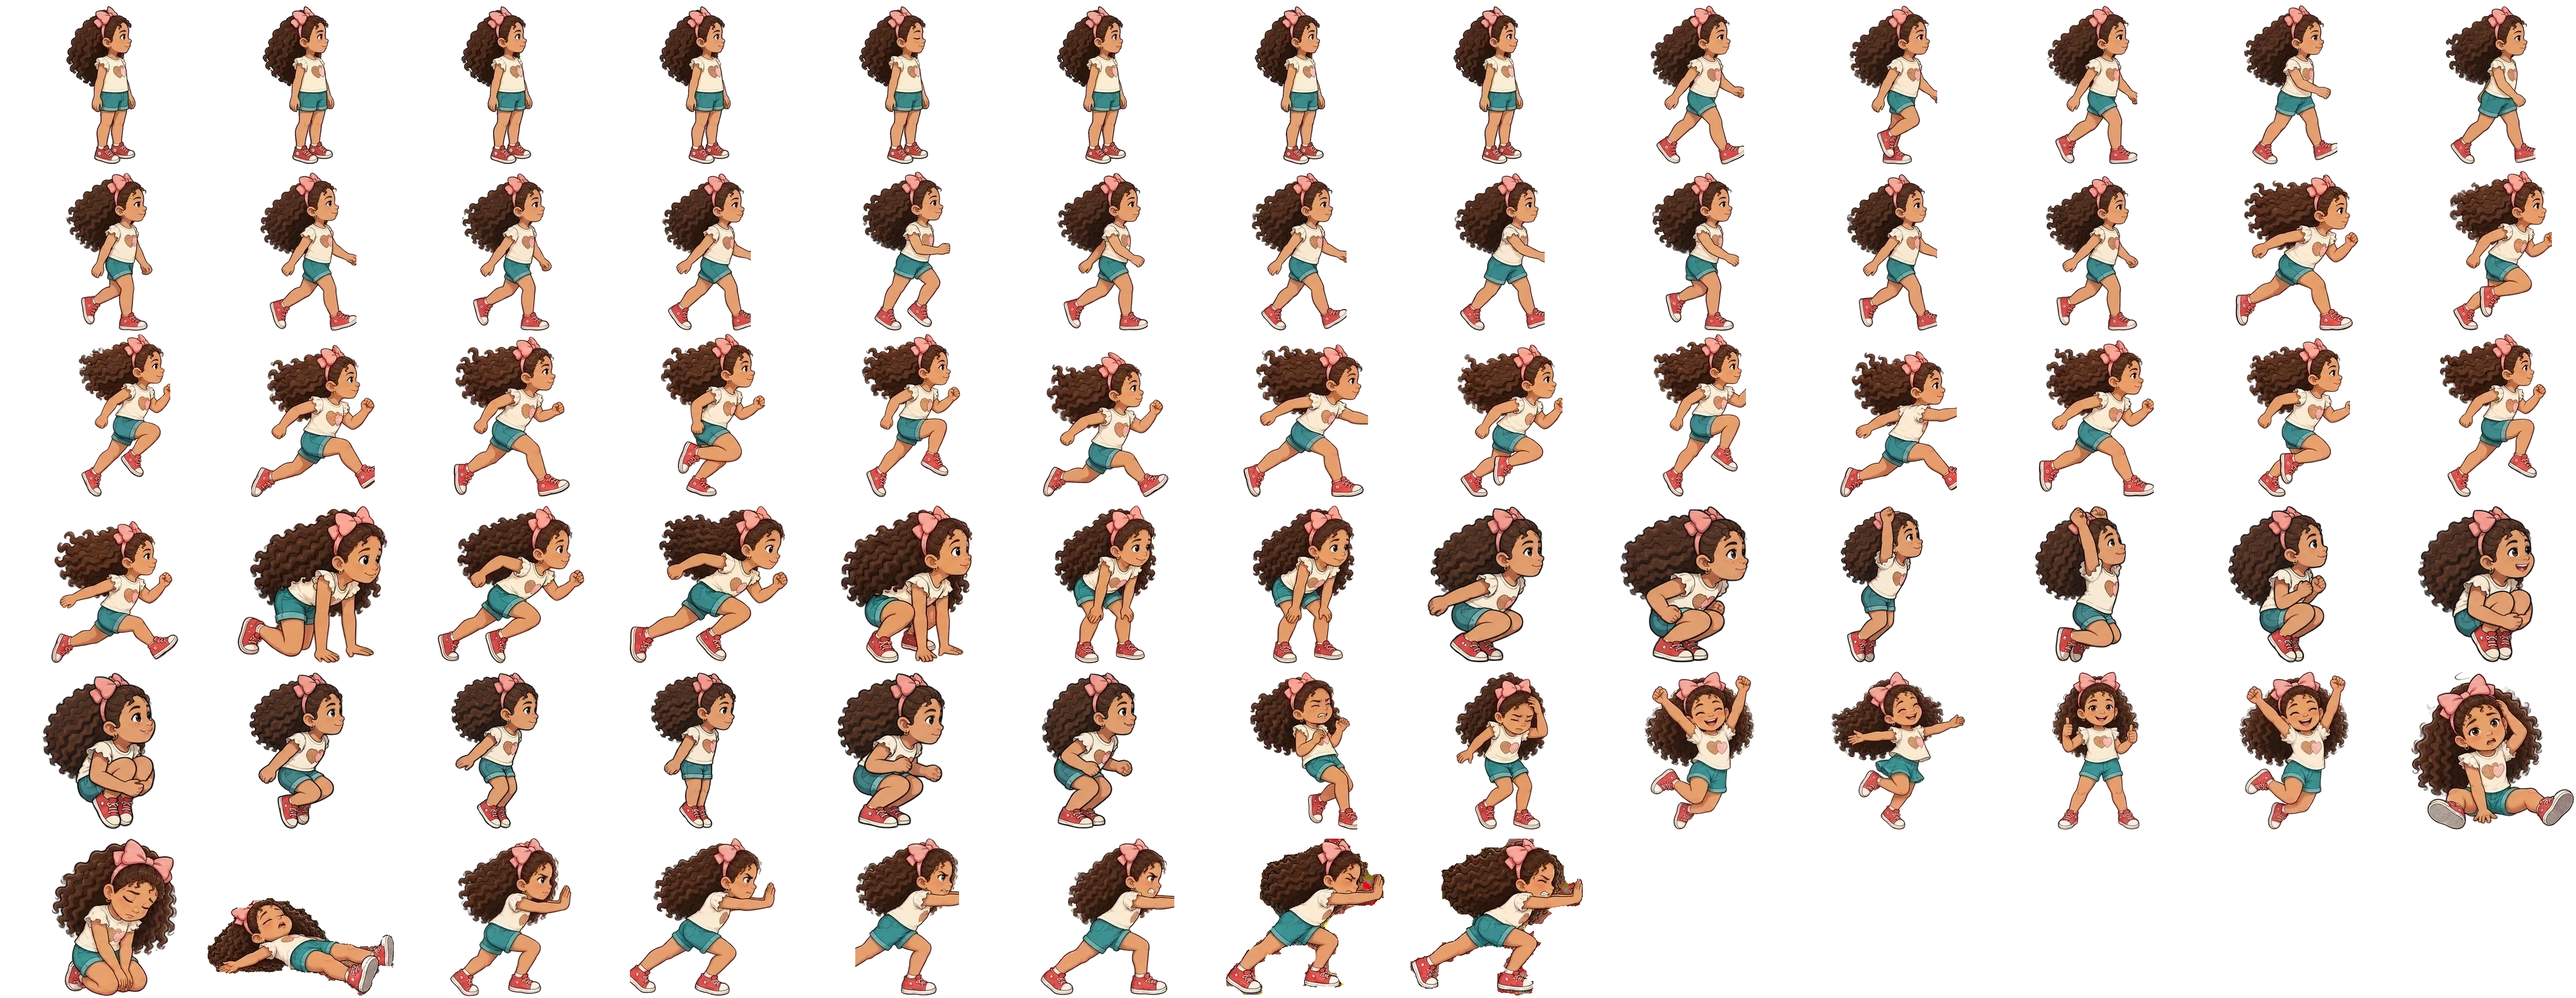
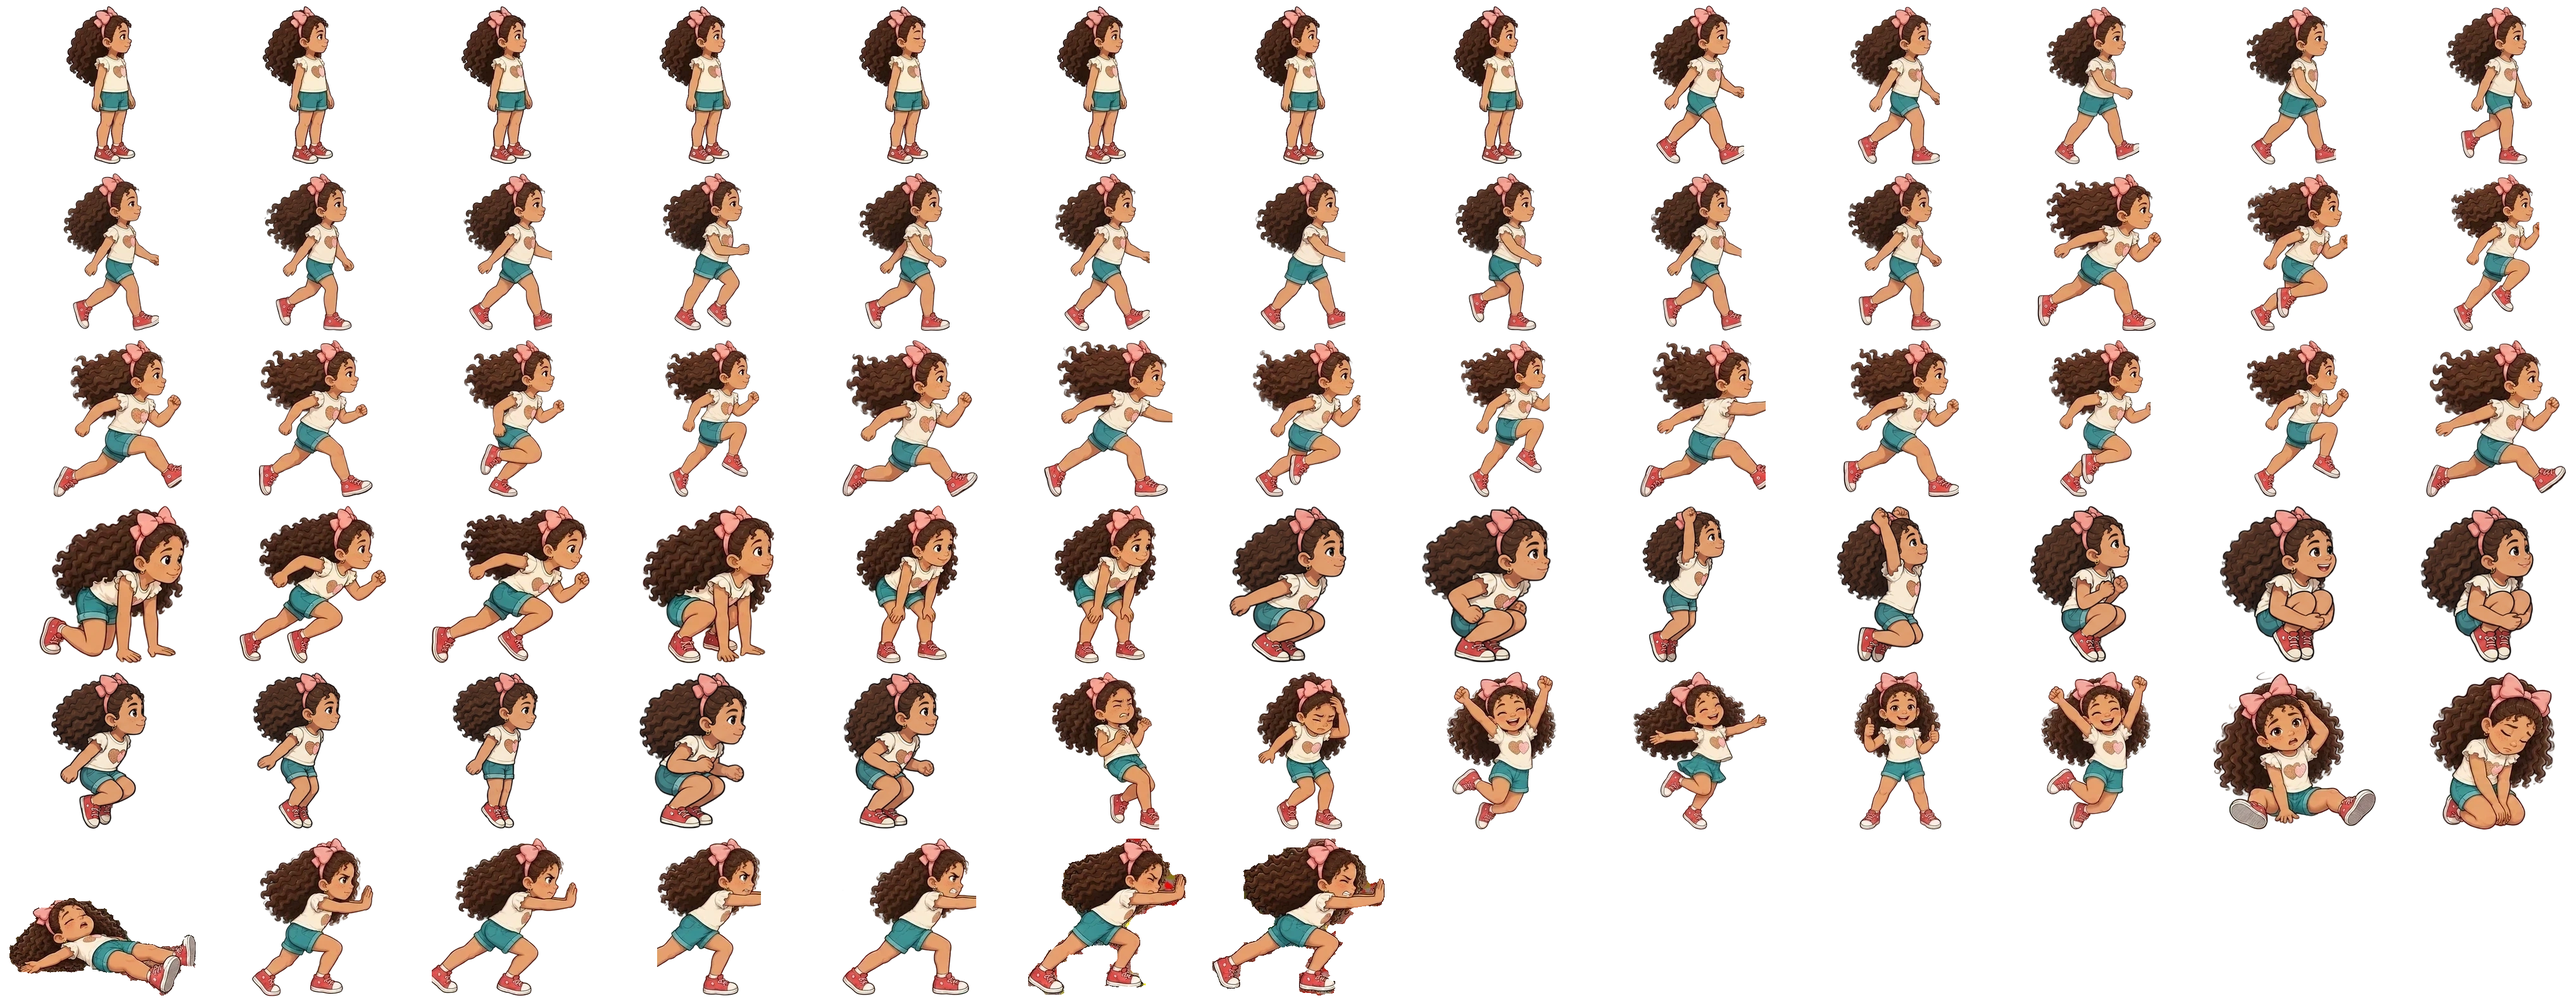
Fix broken movers (unit regression) + uniform Angely walk/run sprites
Movers: stepMovers clock back to seconds. The bc1541a change multiplied
the clock by 1000 believing MoverDef.period was ms; periods are authored
in seconds (3.4/4.2/4.6/5), so every mover in the game raced its phase,
teleported with velocities of thousands of px/s and could not be ridden
(Angelo on-device report, 3-1 first). Verified post-fix in harness:
position matches the authored cosine path with max error 1.3px, peak
velocity 259 px/s (theoretical max), ride test: platform +154px,
player +150px.

Sprites (angely.webp): run frames had content heights of 224-258px
against a fixed gen h of 228, so the figure pulsed up to +-13% in size
and width at 26fps (the glitch/wide look). All 16 run frames are now
renormalized to a uniform 248px content height, feet at y=259, center
x=186; gen h set to 248. Walk: deleted frame 9, the pose with the hand
hanging onto the raised knee (Angelo: horrible); walk is now 15 frames
renormalized to 249px, center x=176, gen h 249. All later animations
shifted -1; shifted frames verified pixel-identical (alpha IoU 1.000).
Validator PASS (1403 frames), tsc clean.

Changed region(s): [[0.0, 0.0, 0.9988, 1.0]]

diff --git a/src/assets/sprites.gen.ts b/src/assets/sprites.gen.ts
@@ -20,84 +20,84 @@ export const SPRITES = {
       },
       "walk": {
         "start": 8,
-        "end": 23,
+        "end": 22,
         "fps": 24,
         "repeat": -1,
-        "h": 239
+        "h": 249
       },
       "run": {
-        "start": 24,
-        "end": 39,
+        "start": 23,
+        "end": 38,
         "fps": 26,
         "repeat": -1,
-        "h": 228
+        "h": 248
       },
       "start": {
-        "start": 40,
-        "end": 42,
+        "start": 39,
+        "end": 41,
         "fps": 18,
         "repeat": 0,
         "h": 248
       },
       "stop": {
-        "start": 43,
-        "end": 45,
+        "start": 42,
+        "end": 44,
         "fps": 14,
         "repeat": 0,
         "h": 243
       },
       "jump": {
-        "start": 46,
-        "end": 49,
+        "start": 45,
+        "end": 48,
         "fps": 20,
         "repeat": 0,
         "h": 248
       },
       "air": {
-        "start": 50,
-        "end": 52,
+        "start": 49,
+        "end": 51,
         "fps": 8,
         "repeat": -1,
         "h": 248
       },
       "fall": {
-        "start": 53,
-        "end": 55,
+        "start": 52,
+        "end": 54,
         "fps": 8,
         "repeat": -1,
         "h": 248
       },
       "land": {
-        "start": 56,
-        "end": 57,
+        "start": 55,
+        "end": 56,
         "fps": 12,
         "repeat": 0,
         "h": 248
       },
       "hurt": {
-        "start": 58,
-        "end": 59,
+        "start": 57,
+        "end": 58,
         "fps": 10,
         "repeat": 0,
         "h": 204
       },
       "celebrate": {
-        "start": 60,
-        "end": 63,
+        "start": 59,
+        "end": 62,
         "fps": 7,
         "repeat": -1,
         "h": 222
       },
       "defeat": {
-        "start": 64,
-        "end": 66,
+        "start": 63,
+        "end": 65,
         "fps": 5,
         "repeat": 0,
         "h": 180
       },
       "push": {
-        "start": 67,
-        "end": 72,
+        "start": 66,
+        "end": 71,
         "fps": 9,
         "repeat": -1,
         "h": 220

diff --git a/src/world/Mechanics.ts b/src/world/Mechanics.ts
@@ -321,10 +321,15 @@ export class Mechanics {
    * velocity always lands exactly on the path; riders are carried by Arcade's friction.
    */
   private stepMovers(stepDelta: number) {
-    // WORLD_STEP delivers delta in SECONDS; mover periods are in ms.
-    // (Found 2026-10-22: without the conversion every lift/bridge in the
-    // game crept at 1/1000 speed — effectively frozen.)
-    this.moverClock += stepDelta * 1000;
+    // WORLD_STEP delivers delta in SECONDS, and MoverDef.period is authored
+    // in SECONDS too (3.4, 4.2, 4.6, 5 in level.ts) — so the clock stays in
+    // seconds. (Corrected 2026-10-22 evening: an earlier change multiplied
+    // the clock by 1000 under the wrong belief that periods were in ms;
+    // that made the phase race ~1000x, platforms teleported with velocities
+    // in the thousands of px/s, and riders could not stand — Angelo caught
+    // it on device in 3-1. The "creeping" seen before was the QA harness's
+    // physics-step starvation at ~1 FPS, not a unit bug.)
+    this.moverClock += stepDelta;
     const dt = stepDelta;
     const pb = this.scene.player?.body;
     for (const m of this.movers) {
